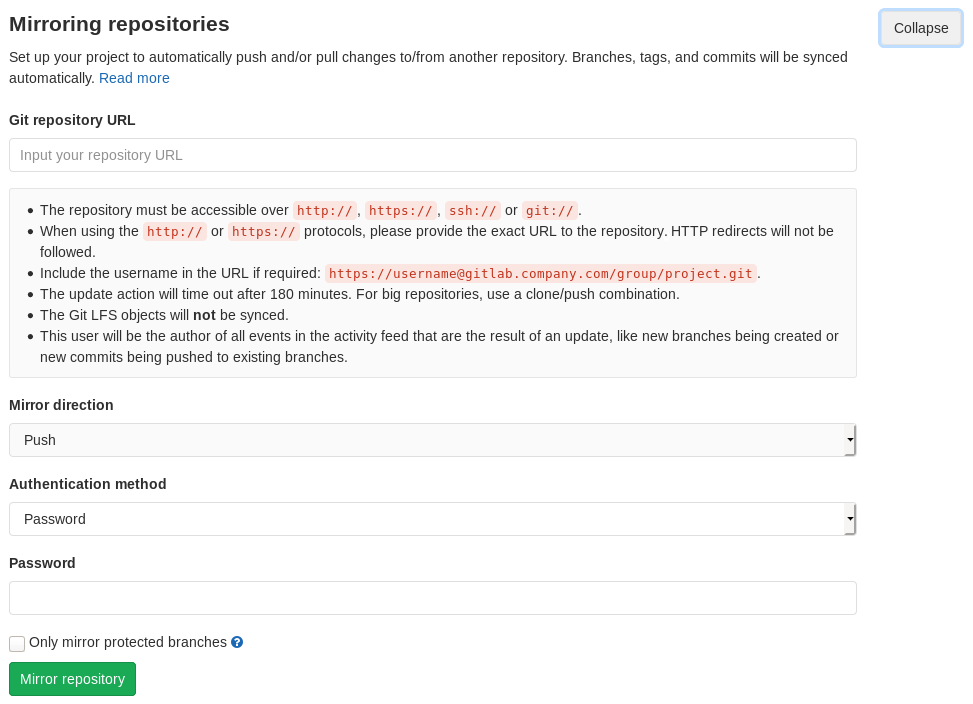
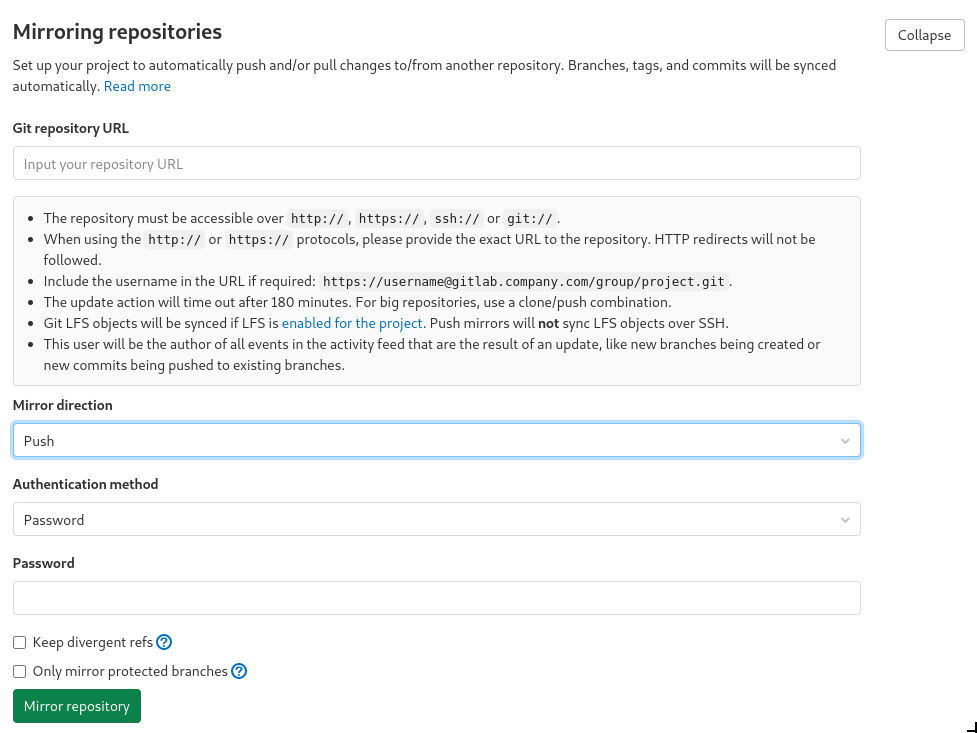
Sync LFS objects when push mirroring over HTTPS
This commit removes the feature flag guarding this feature, making it
available for general consumption, and updates the documentation to
suit.

diff --git a/spec/services/projects/update_remote_mirror_service_spec.rb b/spec/services/projects/update_remote_mirror_service_spec.rb
@@ -123,54 +123,36 @@ RSpec.describe Projects::UpdateRemoteMirrorService do
         stub_lfs_setting(enabled: true)
       end
 
-      context 'feature flag enabled' do
-        before do
-          stub_feature_flags(push_mirror_syncs_lfs: true)
+      it 'pushes LFS objects to a HTTP repository' do
+        expect_next_instance_of(Lfs::PushService) do |service|
+          expect(service).to receive(:execute)
         end
 
-        it 'pushes LFS objects to a HTTP repository' do
-          expect_next_instance_of(Lfs::PushService) do |service|
-            expect(service).to receive(:execute)
-          end
-
-          execute!
-        end
-
-        it 'does nothing to an SSH repository' do
-          remote_mirror.update!(url: 'ssh://example.com')
-
-          expect_any_instance_of(Lfs::PushService).not_to receive(:execute)
-
-          execute!
-        end
-
-        it 'does nothing if LFS is disabled' do
-          expect(project).to receive(:lfs_enabled?) { false }
-
-          expect_any_instance_of(Lfs::PushService).not_to receive(:execute)
-
-          execute!
-        end
-
-        it 'does nothing if non-password auth is specified' do
-          remote_mirror.update!(auth_method: 'ssh_public_key')
-
-          expect_any_instance_of(Lfs::PushService).not_to receive(:execute)
-
-          execute!
-        end
+        execute!
       end
 
-      context 'feature flag disabled' do
-        before do
-          stub_feature_flags(push_mirror_syncs_lfs: false)
-        end
+      it 'does nothing to an SSH repository' do
+        remote_mirror.update!(url: 'ssh://example.com')
 
-        it 'does nothing' do
-          expect_any_instance_of(Lfs::PushService).not_to receive(:execute)
+        expect_any_instance_of(Lfs::PushService).not_to receive(:execute)
 
-          execute!
-        end
+        execute!
+      end
+
+      it 'does nothing if LFS is disabled' do
+        expect(project).to receive(:lfs_enabled?) { false }
+
+        expect_any_instance_of(Lfs::PushService).not_to receive(:execute)
+
+        execute!
+      end
+
+      it 'does nothing if non-password auth is specified' do
+        remote_mirror.update!(auth_method: 'ssh_public_key')
+
+        expect_any_instance_of(Lfs::PushService).not_to receive(:execute)
+
+        execute!
       end
     end
   end

diff --git a/app/helpers/mirror_helper.rb b/app/helpers/mirror_helper.rb
@@ -9,7 +9,11 @@ module MirrorHelper
   end
 
   def mirror_lfs_sync_message
-    html_escape(_('The Git LFS objects will %{strong_open}not%{strong_close} be synced.')) % { strong_open: '<strong>'.html_safe, strong_close: '</strong>'.html_safe }
+    docs_link_url = help_page_path('topics/git/lfs/index')
+    docs_link_start = '<a href="%{url}" target="_blank" rel="noopener noreferrer">'.html_safe % { url: docs_link_url }
+
+    html_escape(_('Git LFS objects will be synced if LFS is %{docs_link_start}enabled for the project%{docs_link_end}. Push mirrors will %{strong_open}not%{strong_close} sync LFS objects over SSH.')) %
+        { docs_link_start: docs_link_start, docs_link_end: '</a>'.html_safe, strong_open: '<strong>'.html_safe, strong_close: '</strong>'.html_safe }
   end
 end
 

diff --git a/ee/app/helpers/ee/mirror_helper.rb b/ee/app/helpers/ee/mirror_helper.rb
@@ -36,13 +36,5 @@ module EE
       count = project.mirror == true ? 1 : 0
       count + @project.remote_mirrors.to_a.count { |mirror| mirror.enabled }
     end
-
-    def mirror_lfs_sync_message
-      docs_link_url = help_page_path('topics/git/lfs/index')
-      docs_link_start = '<a href="%{url}" target="_blank" rel="noopener noreferrer">'.html_safe % { url: docs_link_url }
-
-      html_escape(_('Git LFS objects will be synced in pull mirrors if LFS is %{docs_link_start}enabled for the project%{docs_link_end}. They will %{strong_open}not%{strong_close} be synced in push mirrors.')) %
-        { docs_link_start: docs_link_start, docs_link_end: '</a>'.html_safe, strong_open: '<strong>'.html_safe, strong_close: '</strong>'.html_safe }
-    end
   end
 end

diff --git a/qa/qa/specs/features/browser_ui/3_create/repository/push_mirroring_lfs_over_http_spec.rb b/qa/qa/specs/features/browser_ui/3_create/repository/push_mirroring_lfs_over_http_spec.rb
@@ -3,8 +3,7 @@
 module QA
   RSpec.describe 'Create' do
     describe 'Push mirror a repository over HTTP' do
-      it 'configures and syncs LFS objects for a (push) mirrored repository', :requires_admin, testcase: 'https://gitlab.com/gitlab-org/quality/testcases/-/issues/414' do
-        Runtime::Feature.enable(:push_mirror_syncs_lfs)
+      it 'configures and syncs LFS objects for a (push) mirrored repository', testcase: 'https://gitlab.com/gitlab-org/quality/testcases/-/issues/414' do
         Runtime::Browser.visit(:gitlab, Page::Main::Login)
         Page::Main::Login.perform(&:sign_in_using_credentials)
 

diff --git a/app/services/projects/update_remote_mirror_service.rb b/app/services/projects/update_remote_mirror_service.rb
@@ -55,7 +55,6 @@ module Projects
     end
 
     def send_lfs_objects!(remote_mirror)
-      return unless Feature.enabled?(:push_mirror_syncs_lfs, project)
       return unless project.lfs_enabled?
 
       # TODO: Support LFS sync over SSH

diff --git a/doc/user/project/repository/repository_mirroring.md b/doc/user/project/repository/repository_mirroring.md
@@ -56,6 +56,7 @@ The following are some possible use cases for repository mirroring:
 
 > - [Introduced](https://gitlab.com/gitlab-org/gitlab/-/merge_requests/249) in GitLab Enterprise Edition 8.7.
 > - [Moved to GitLab Core](https://gitlab.com/gitlab-org/gitlab-foss/-/merge_requests/18715) in 10.8.
+> - [LFS support over HTTPS added](https://gitlab.com/gitlab-org/gitlab/-/merge_requests/40137) in 13.5
 
 For an existing project, you can set up push mirroring as follows:
 
